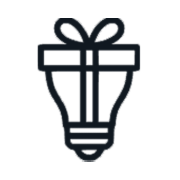
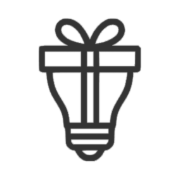
Gifted - 2.8

Changed region(s): [[0.1944, 0.0833, 0.8056, 0.9167]]

diff --git a/src/App.jsx b/src/App.jsx
@@ -1,9 +1,9 @@
 import { useEffect, useMemo, useRef, useState } from "react";
-import GiftedLight from "./Icons/GiftedLight.png";
+import GiftedLight from "./Icons/GiftedLight.svg";
 import GiftedLogo from "./Icons/GiftedLogo.png";
 import langEnFlag from "./Icons/USAFlag.png";
 import langHeFlag from "./Icons/IsraelFlag.png";
-import { hobbyTitleSubtitle, LOCALE_STORAGE_KEY, makeT } from "./i18n/index.js";
+import { hobbyTitleSubtitle, makeT } from "./i18n/index.js";
 import {
   buildPickContext,
   CURRENCIES,
@@ -803,24 +803,7 @@ export default function App() {
   const [openingGiftId, setOpeningGiftId] = useState(null);
   const [wantThisErrorByGiftId, setWantThisErrorByGiftId] = useState({});
 
-  const [locale, setLocale] = useState(() => {
-    if (typeof window === "undefined") return "en";
-    try {
-      return window.localStorage.getItem(LOCALE_STORAGE_KEY) === "he"
-        ? "he"
-        : "en";
-    } catch {
-      return "en";
-    }
-  });
-
-  useEffect(() => {
-    try {
-      window.localStorage.setItem(LOCALE_STORAGE_KEY, locale);
-    } catch {
-      /* ignore */
-    }
-  }, [locale]);
+  const [locale, setLocale] = useState("en");
 
   useEffect(() => {
     if (typeof document !== "undefined") {
@@ -1878,11 +1861,7 @@ export default function App() {
   }
 
   return (
-    <div
-      className="Shell"
-      id="top"
-      dir={locale === "he" ? "rtl" : "ltr"}
-    >
+    <div className="Shell" id="top" dir={locale === "he" ? "rtl" : "ltr"}>
       <div className="Shell__glow" aria-hidden />
       <header className="Header">
         <button
@@ -2763,6 +2742,44 @@ export default function App() {
                   </div>
                 </div>
 
+                <div className="BudgetInputRow">
+                  <label className="FieldLabel" htmlFor="budget-amount">
+                    {t("exact_amount", {
+                      symbol:
+                        CURRENCIES.find((c) => c.code === currency)?.symbol ??
+                        "",
+                    })}
+                  </label>
+                  <input
+                    id="budget-amount"
+                    type="number"
+                    inputMode="decimal"
+                    className="Input BudgetInputRow__input"
+                    min={0}
+                    max={maxDisplay}
+                    step={currency === "ILS" ? 20 : maxDisplay > 5000 ? 25 : 10}
+                    disabled={budgetUnlimited}
+                    value={budgetUnlimited ? "" : budgetAmountText}
+                    onChange={(e) => {
+                      const raw = e.target.value;
+                      setBudgetAmountText(raw);
+                      if (raw === "") return;
+                      const n = Number(raw);
+                      if (!Number.isFinite(n)) return;
+                      setBudgetSlider(
+                        Math.min(maxDisplay, Math.max(0, Math.round(n))),
+                      );
+                    }}
+                    onFocus={() => setIsBudgetAmountEditing(true)}
+                    onBlur={() => {
+                      setIsBudgetAmountEditing(false);
+                      if (budgetUnlimited) return;
+                      if (budgetAmountText !== "") return;
+                      setBudgetAmountText(String(Math.round(budgetInCurrency)));
+                    }}
+                  />
+                </div>
+
                 {!budgetUnlimited && (
                   <>
                     <label className="BudgetUnlimited">
@@ -2836,44 +2853,6 @@ export default function App() {
                     )}
                   </>
                 )}
-
-                <div className="BudgetInputRow">
-                  <label className="FieldLabel" htmlFor="budget-amount">
-                    {t("exact_amount", {
-                      symbol:
-                        CURRENCIES.find((c) => c.code === currency)?.symbol ??
-                        "",
-                    })}
-                  </label>
-                  <input
-                    id="budget-amount"
-                    type="number"
-                    inputMode="decimal"
-                    className="Input BudgetInputRow__input"
-                    min={0}
-                    max={maxDisplay}
-                    step={currency === "ILS" ? 20 : maxDisplay > 5000 ? 25 : 10}
-                    disabled={budgetUnlimited}
-                    value={budgetUnlimited ? "" : budgetAmountText}
-                    onChange={(e) => {
-                      const raw = e.target.value;
-                      setBudgetAmountText(raw);
-                      if (raw === "") return;
-                      const n = Number(raw);
-                      if (!Number.isFinite(n)) return;
-                      setBudgetSlider(
-                        Math.min(maxDisplay, Math.max(0, Math.round(n))),
-                      );
-                    }}
-                    onFocus={() => setIsBudgetAmountEditing(true)}
-                    onBlur={() => {
-                      setIsBudgetAmountEditing(false);
-                      if (budgetUnlimited) return;
-                      if (budgetAmountText !== "") return;
-                      setBudgetAmountText(String(Math.round(budgetInCurrency)));
-                    }}
-                  />
-                </div>
 
                 {recapParts.length > 0 && recipientId && (
                   <p className="Recap">
